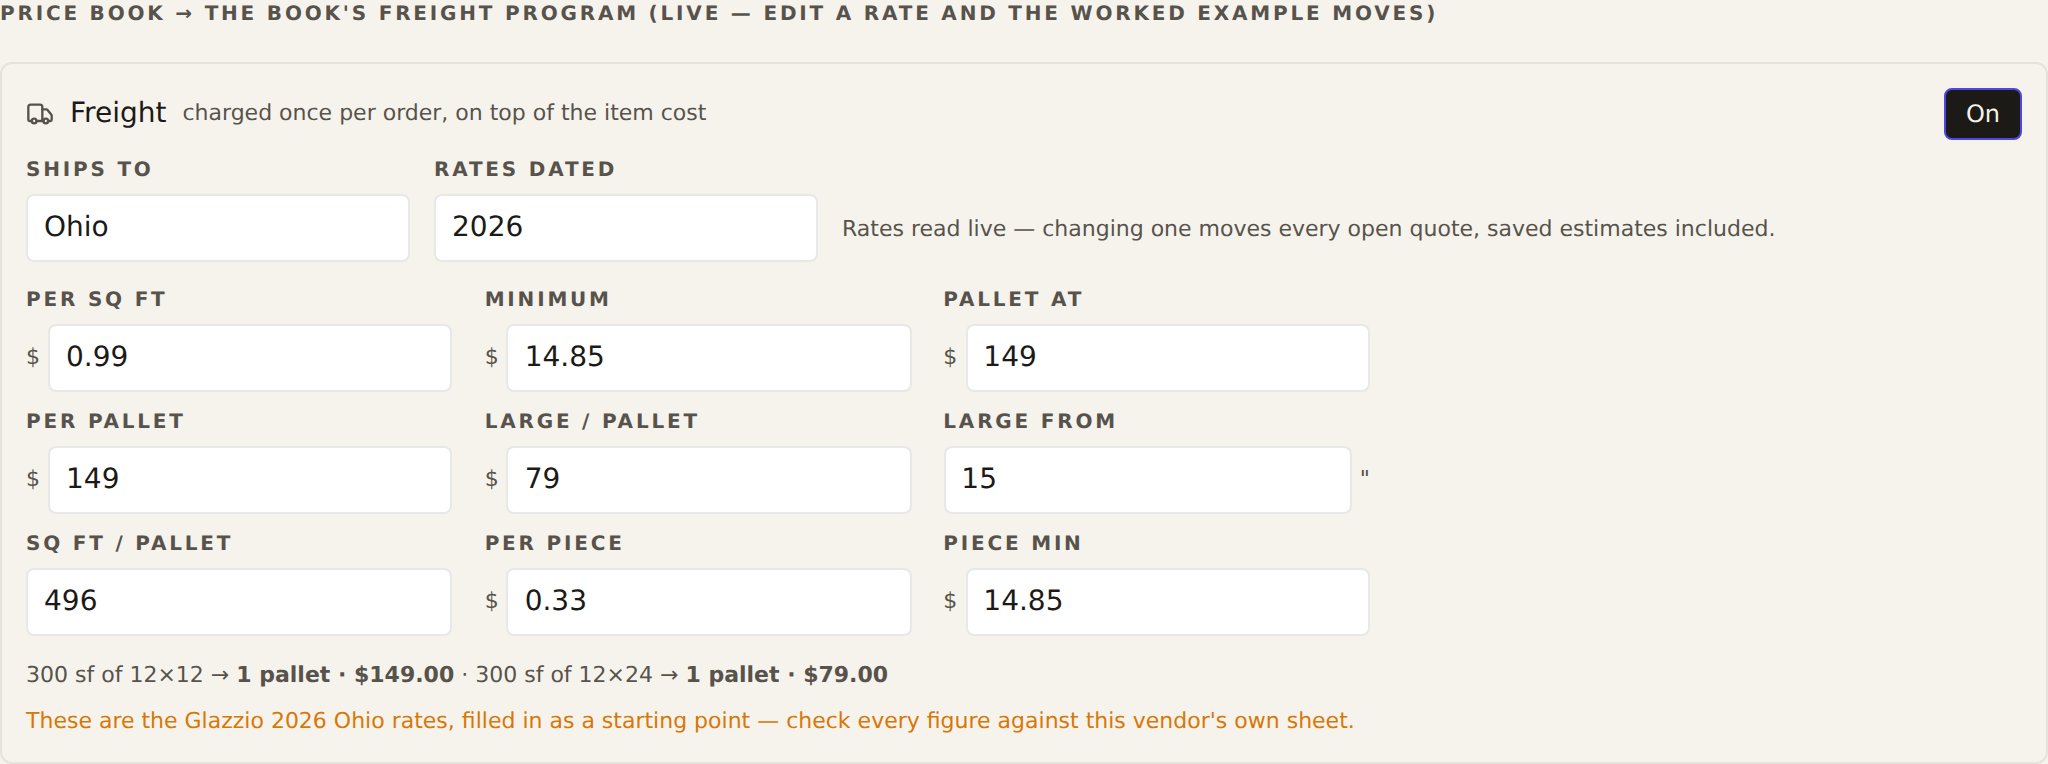
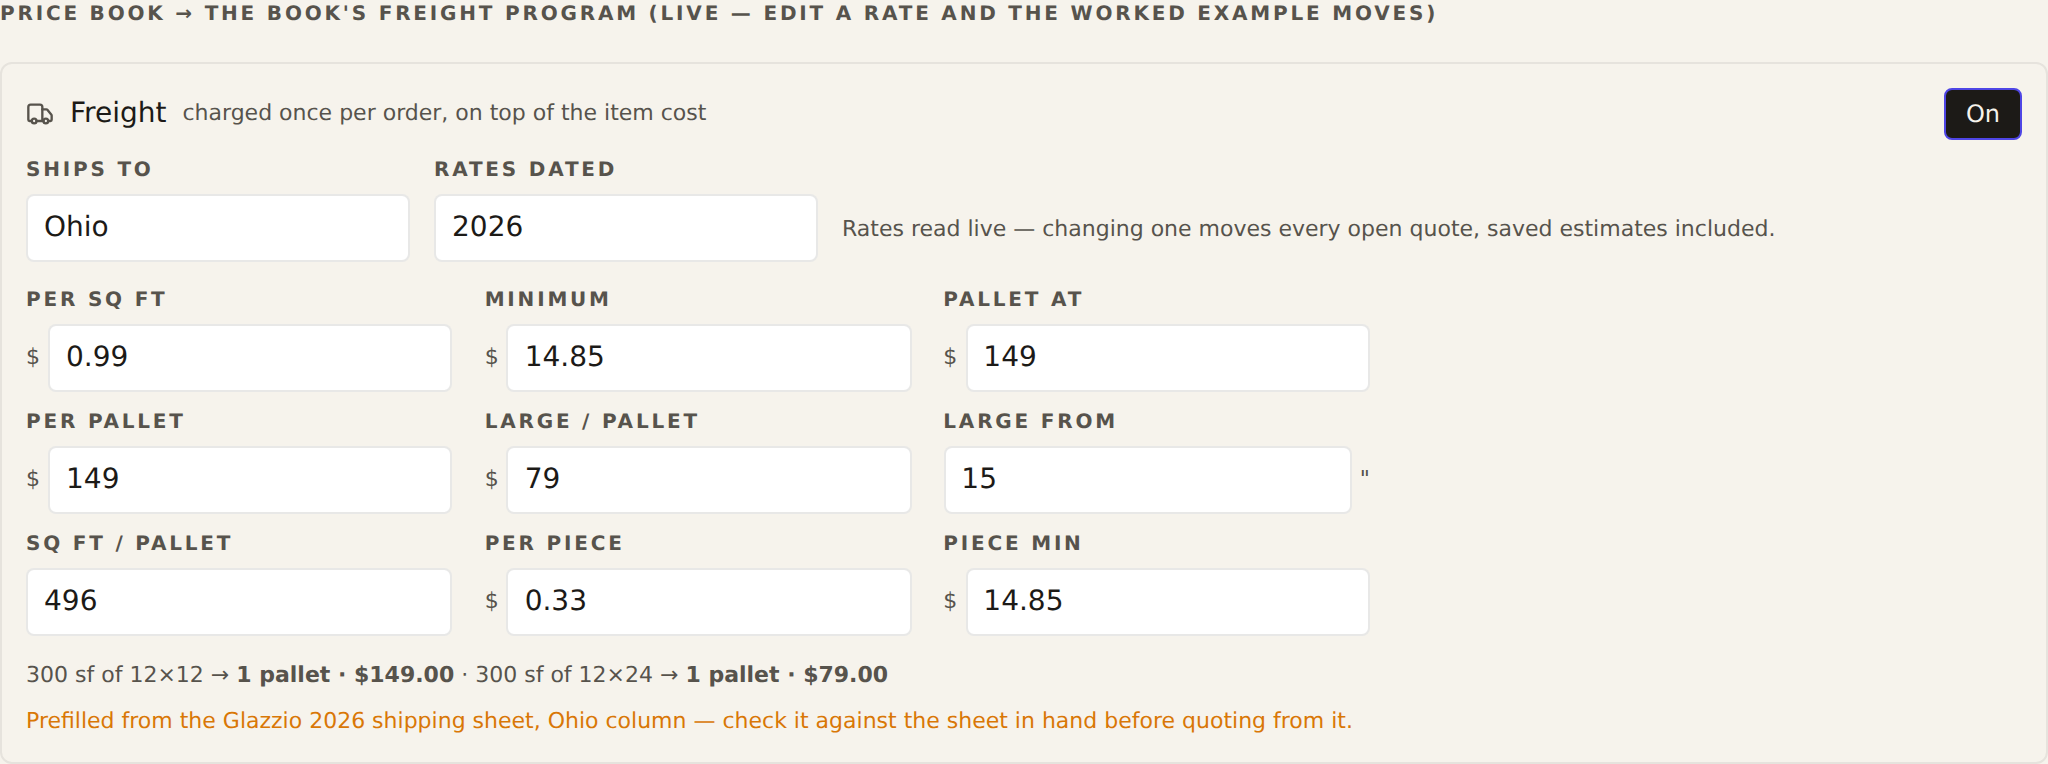
Prefill the freight rates on the Glazzio book only
The seed was applied to any book whose program was switched on, which would
have quoted another distributor's shipping at Glazzio's prices — worse than
an empty card, because it looks finished. freightSeedFor matches the book by
name: Glazzio gets the transcribed Ohio rates, every other vendor gets a
program with the rates empty. The prefill notice is gated on the same match,
so it can only appear where the numbers really came from a sheet.

Claude-Session: https://claude.ai/code/session_01L3a3oKHUf3QnRfVSaCBPP1

Changed region(s): [[0.0, 0.9332, 0.6562, 0.9634]]

diff --git a/src/pricebooklib.jsx b/src/pricebooklib.jsx
@@ -1,7 +1,7 @@
 import { useState, useEffect, useMemo, useRef } from "react";
 import { AlertTriangle, ChevronRight, Eye, EyeOff, FileText, Flag, History, Lock, Pencil, Percent, Pin, Plus, RotateCcw, Trash2, Truck, Upload, X } from "lucide-react";
 import { num } from "./catalog.js";
-import { normFreight, freightParts, freightSummary, freightIsBlank, freightIsSeed, FREIGHT_SEED } from "./freight.js";
+import { normFreight, freightParts, freightSummary, freightIsBlank, freightIsSeed, freightSeedFor, isSeedBook } from "./freight.js";
 import { MAX_QUICK_MARKUPS } from "./costentry.js";
 import { priceUnitOf, orderUnitOf } from "./stock.js";
 import { mappedSkuRe, guessHeaderRow, bestDataSheet, columnsFromHeader, parseMapped, detectVtcEft, detectVendorSkuAnalysis } from "./pricebook.js";
@@ -1250,10 +1250,10 @@ export function FreightCard({ book, onSave, inp, lbl }) {   // exported for the 
         <Truck size={14} className="text-slate-400" />
         <span className="text-sm font-medium">Freight</span>
         <span className="text-[11px] text-slate-400">charged once per order, on top of the item cost</span>
-        {/* Switching a blank program on seeds it rather than opening nine empty
-            boxes — the shape is the same for every distributor, and the seed is
-            labeled until a rate is edited. */}
-        <button onClick={() => commit(on ? { ...normFreight(f), mode: "none" } : freightIsBlank(f) ? { ...FREIGHT_SEED } : { ...normFreight(f), mode: "program" })}
+        {/* Switching a blank program on prefills it — but only on the book the
+            transcribed sheet belongs to (freightSeedFor). Any other vendor opens
+            empty rather than wearing Glazzio's rates. */}
+        <button onClick={() => commit(on ? { ...normFreight(f), mode: "none" } : freightIsBlank(f) ? freightSeedFor(book) : { ...normFreight(f), mode: "program" })}
           className={"ml-auto text-xs rounded-md border px-2.5 py-1 " + (on ? "bg-indigo-600 border-indigo-600 text-white" : "border-slate-200 text-slate-600 hover:bg-slate-50")}>
           {on ? "On" : "Off"}
         </button>
@@ -1290,9 +1290,9 @@ export function FreightCard({ book, onSave, inp, lbl }) {   // exported for the 
           <p className="text-[11px] text-slate-400 mt-3">
             300 sf of 12×12 → <b className="text-slate-500">{demo(300, 12)}</b> · 300 sf of 12×24 → <b className="text-slate-500">{demo(300, 24)}</b>
           </p>
-          {freightIsSeed(f) && (
+          {isSeedBook(book) && freightIsSeed(f) && (
             <p className="text-[11px] text-amber-600 mt-1.5">
-              These are the Glazzio 2026 Ohio rates, filled in as a starting point — check every figure against this vendor&apos;s own sheet.
+              Prefilled from the Glazzio 2026 shipping sheet, Ohio column — check it against the sheet in hand before quoting from it.
             </p>
           )}
         </>

diff --git a/src/freight.js b/src/freight.js
@@ -62,18 +62,25 @@ export const normFreight = (raw) => ({
 export const bookFreight = (book) => normFreight(book?.data?.freight);
 export const hasFreightProgram = (book) => bookFreight(book).mode === "program";
 
-// The rates a freshly switched-on program starts with: Glazzio's 2026 shipping
-// sheet read down the Ohio column, which is the only destination the shop ships
-// to and the only real program anyone has typed. Every distributor's sheet has
-// this shape, and most of the figures (the pallet size, the 15" large-format
-// line) are the shop's own facts rather than Glazzio's — so seeding beats nine
-// empty boxes even for a different vendor. It is a STARTING POINT, not a
-// default: the card says where the numbers came from until someone edits one.
+// Glazzio's 2026 shipping sheet, read down the Ohio column — the one real
+// program anyone has transcribed, prefilled so switching Glazzio's freight on is
+// a press rather than nine numbers. It seeds ONLY that book (isSeedBook): these
+// are one vendor's rates, and dropping them into another distributor's program
+// would quote that vendor's shipping at Glazzio's prices, which is worse than an
+// empty card because it looks finished.
 export const FREIGHT_SEED = Object.freeze({
   mode: "program", destination: "Ohio", effective: "2026", palletSf: 496,
   perSqft: 0.99, minCharge: 14.85, palletAt: 149, palletRate: 149,
   largeRate: 79, largeFormatIn: 15, perPiece: 0.33, pieceMin: 14.85,
 });
+
+// The book the seed belongs to, matched on its name — the shop names its books
+// after the vendor, and the alternative is a hardcoded book id that changes the
+// first time someone re-creates the book. Every other book opens its freight
+// program empty.
+const SEED_BOOK_RE = /glazzio/i;
+export const isSeedBook = (book) => SEED_BOOK_RE.test(str(book?.name));
+export const freightSeedFor = (book) => (isSeedBook(book) ? { ...FREIGHT_SEED } : { mode: "program" });
 
 const RATE_FIELDS = ["palletSf", "perSqft", "minCharge", "palletAt", "palletRate", "largeRate", "perPiece", "pieceMin"];
 // A program nobody has given rates to — every chargeable figure still zero.

diff --git a/src/freight.test.js b/src/freight.test.js
@@ -2,7 +2,7 @@ import test from "node:test";
 import assert from "node:assert/strict";
 import { normalizeSettings } from "./catalog.js";
 import { newProduct, normP, normC, newProject } from "./model.js";
-import { normFreight, hasFreightProgram, rowFreightOn, rowLongestSide, freightBasis, freightTally, freightParts, freightList, freightTotal, freightSummary, freightOrderRows, FREIGHT_SEED, freightIsBlank, freightIsSeed } from "./freight.js";
+import { normFreight, hasFreightProgram, rowFreightOn, rowLongestSide, freightBasis, freightTally, freightParts, freightList, freightTotal, freightSummary, freightOrderRows, FREIGHT_SEED, freightIsBlank, freightIsSeed, freightSeedFor, isSeedBook } from "./freight.js";
 
 const s = normalizeSettings();
 
@@ -30,8 +30,18 @@ test("normFreight: an unconfigured book has no program, and 0 rates switch rules
   assert.equal(normFreight({ mode: "program", perSqft: "-3", palletSf: "abc" }).perSqft, 0);
 });
 
-test("FREIGHT_SEED prefills a switched-on program with the Glazzio Ohio rates", () => {
+test("the seed prefills the Glazzio book only — every other vendor opens empty", () => {
   assert.deepEqual(normFreight(FREIGHT_SEED), normFreight(GLAZZIO));
+  assert.equal(isSeedBook({ name: "Glazzio Tiles" }), true);
+  assert.equal(isSeedBook({ name: "glazzio" }), true);
+  assert.equal(isSeedBook({ name: "Virginia Tile — Core" }), false);
+  assert.equal(isSeedBook(undefined), false);
+  assert.deepEqual(freightSeedFor({ name: "Glazzio Tiles" }), { ...FREIGHT_SEED });
+  // Another vendor gets a program with no rates at all, not Glazzio's.
+  const other = normFreight(freightSeedFor({ name: "Anatolia Tile" }));
+  assert.equal(other.mode, "program");
+  assert.equal(freightIsBlank(other), true);
+  assert.equal(other.destination, "");
   // Blank = nothing chargeable typed yet, which is what earns the prefill.
   assert.equal(freightIsBlank({ mode: "program" }), true);
   assert.equal(freightIsBlank(undefined), true);

diff --git a/docs/adr/0030-vendor-freight-program.md b/docs/adr/0030-vendor-freight-program.md
@@ -50,13 +50,14 @@ Neither reserved mode fits: `perSqft` has no minimum and no threshold, and flat
    numbers, and the vendor re-issues them about once a year: the import
    machinery would cost more to build than retyping the numbers ever will.
 
-   Switching a blank program on **seeds it** with `FREIGHT_SEED` — the Glazzio
-   Ohio rates — rather than opening nine empty boxes. Every distributor's sheet
-   has this shape, and several of the figures (the 496 sq ft pallet, the 15"
-   large-format line) are the shop's own facts rather than Glazzio's, so the
-   seed is a head start even for a different vendor. The card labels it as
-   Glazzio's numbers until any rate is edited (`freightIsSeed`), so a seeded
-   program can't quietly pass for a checked one.
+   Switching a blank program on **prefills the Glazzio book only**
+   (`freightSeedFor`, matched on the book's name) with the transcribed Ohio
+   rates, so turning that vendor's freight on is a press rather than nine
+   numbers. Every other book opens with the rates empty: those figures are one
+   vendor's, and a program wearing them would quote another distributor's
+   shipping at Glazzio's prices — worse than an empty card, because it looks
+   finished. The card labels the prefill until any rate is edited
+   (`freightIsSeed`), so a seeded program can't quietly pass for a checked one.
 
 2. **Freight rates read LIVE at calc time, not snapshotted at pick time.** This
    is a deliberate exception to the ADR 0003 snapshot doctrine, and the reason

diff --git a/CLAUDE.md b/CLAUDE.md
@@ -563,10 +563,10 @@ longer resolves — all resolving by name at calc time, like mortar.
 **Vendor freight** (issue 061, ADR 0030). A special-order book can carry a
 **freight program** — the rate table off the vendor's shipping sheet, stored in
 `price_books.data.freight` (the slot ADR 0009 §3 reserved) and edited on the book
-page beside the markup editor. Switching a blank program on seeds it with
-`FREIGHT_SEED` (the Glazzio Ohio rates), labeled as such on the card until a rate
-is edited — every distributor's sheet has this shape and the pallet size and 15"
-large-format line are the shop's own facts. Unlike everything else a book holds, freight rates
+page beside the markup editor. Switching a blank program on prefills the
+**Glazzio book only** (`freightSeedFor`, matched on the book name) with the
+transcribed Ohio rates, labeled on the card until a rate is edited; every other
+vendor's program opens empty rather than wearing Glazzio's prices. Unlike everything else a book holds, freight rates
 are **read live at calc time**, never snapshotted: the charge depends on the job's
 square footage, which moves with every edit, and a retyped sheet is the team
 restating what shipping costs today rather than a vendor re-import rewriting a

diff --git a/.scratch/061_vendor-freight-program/ticket.md b/.scratch/061_vendor-freight-program/ticket.md
@@ -63,8 +63,8 @@ pallet is the floor.
   out as presentation so the preview harness mounts the real components.
 - **Price book → the book page** — a Freight card beside the markup editor, with
   a worked example that moves as you type a rate. Switching a blank program on
-  fills in the Ohio rates above (`FREIGHT_SEED`) instead of nine empty boxes; the
-  card says they're Glazzio's numbers until one is edited.
+  fills in the Ohio rates above — **on the Glazzio book only**; any other
+  vendor's opens empty. The card labels the prefill until a rate is edited.
 - **The job** — freight lands in the materials estimate, the order summary, the
   grand total, the printed estimate's extras band, the printed order sheet, and
   the order-entry panel's Special order section.
